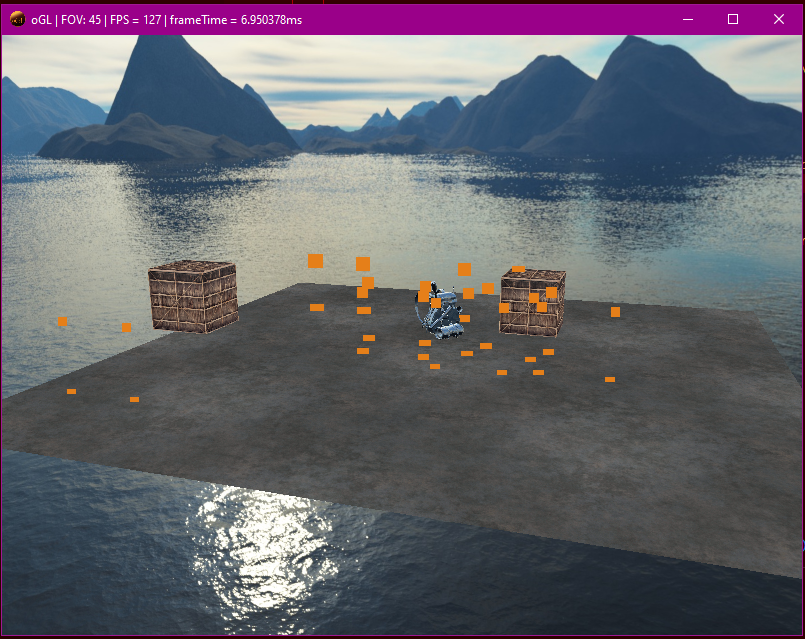
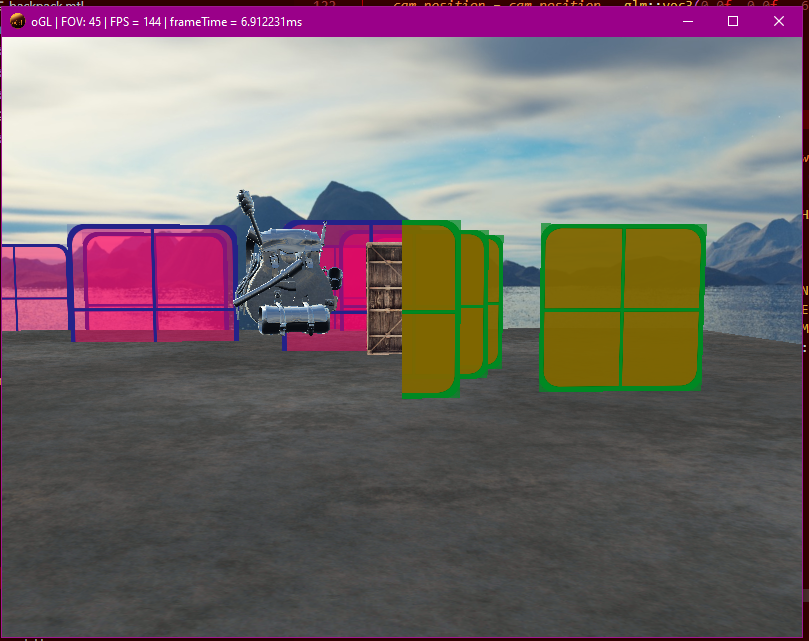
Misc builtin GLSL vars

diff --git a/src/main.cpp b/src/main.cpp
@@ -114,7 +114,6 @@ int main(int argc, char **argv){
     glEnable(GL_CULL_FACE);
     glCullFace(GL_BACK);
     glFrontFace(GL_CCW);
-    glEnable(GL_PROGRAM_POINT_SIZE);
 
     int nrAttributes;
     glGetIntegerv(GL_MAX_VERTEX_ATTRIBS, &nrAttributes);
@@ -473,7 +472,7 @@ int main(int argc, char **argv){
             model = glm::mat4(1.0f);
             model = glm::translate(model, it->second);
             trShader.setMat4("model", model);
-            glDrawArrays(GL_POINTS, 0, 6);
+            glDrawArrays(GL_TRIANGLES, 0, 6);
         }
         glEnable(GL_CULL_FACE);
         
